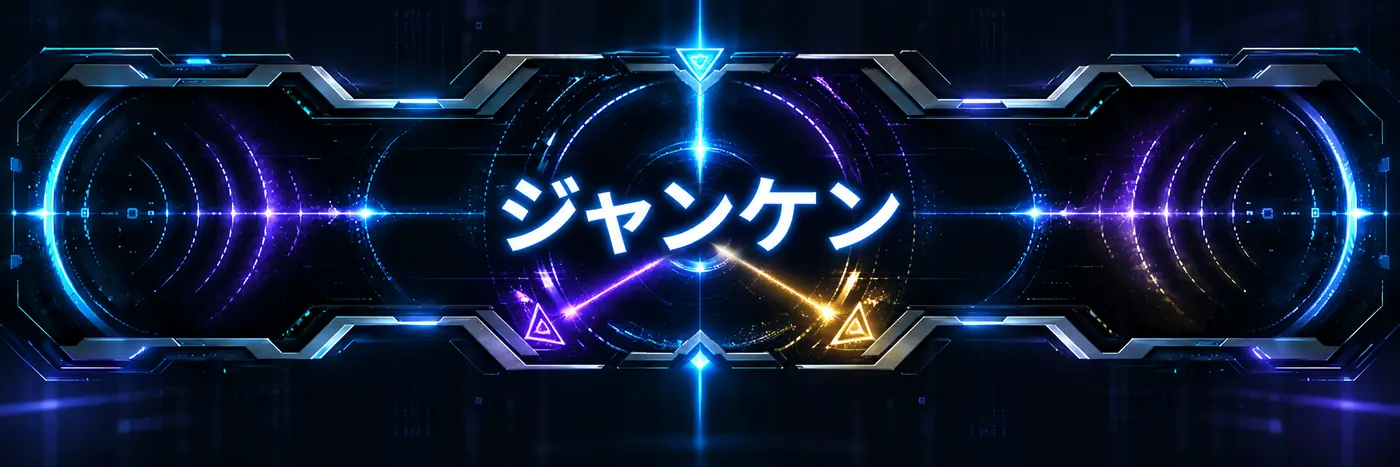
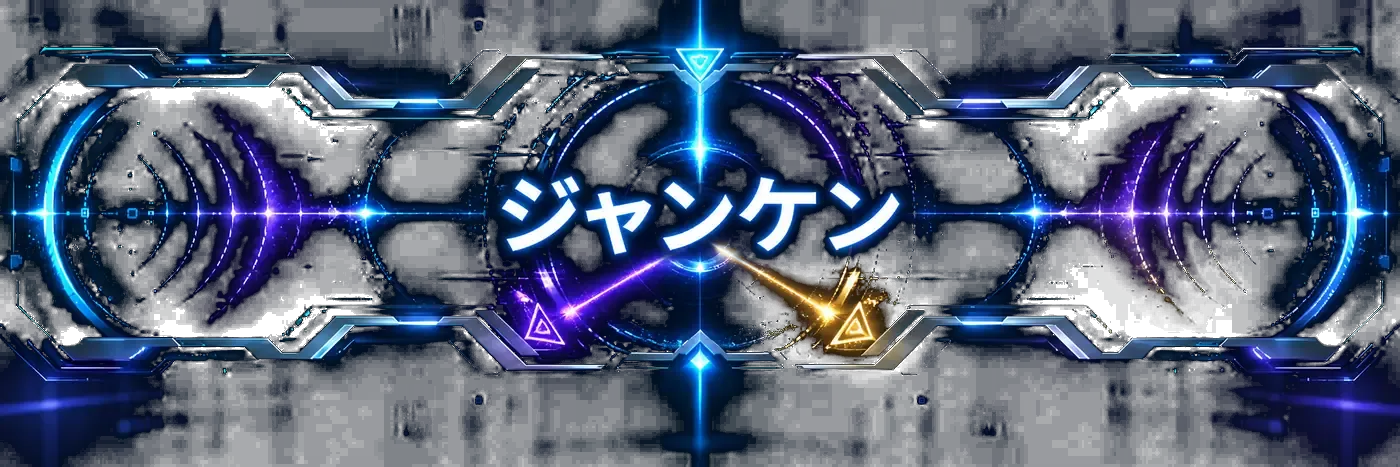
Add files via upload

diff --git a/public/network.html b/public/network.html
@@ -5,12 +5,12 @@
 <div id="networkHome" class="network-home"><div class="network-home-head"><span>NEXUS NETWORK</span><strong>SELECT LINK</strong></div><div class="network-art-menu"><button type="button" data-open-network="chat"><img src="/ui/global-chat.webp" alt="GLOBAL CHAT"></button><button type="button" data-open-network="friends"><img src="/ui/friends.webp" alt="FRIENDS"></button><button type="button" data-open-network="live"><img src="/ui/live-battle.webp" alt="LIVE BATTLE"></button></div></div>
 <div id="networkScreen" class="hidden"><div class="network-screen-nav"><a href="/network" class="network-back">‹ NETWORK</a><button data-tab="chat"><img src="/ui/global-chat.webp" alt="GLOBAL CHAT"></button><button data-tab="friends"><img src="/ui/friends.webp" alt="FRIENDS"></button><button data-tab="live"><img src="/ui/live-battle.webp" alt="LIVE BATTLE"></button></div>
 <div id="chat" class="network-tab hidden"><div class="network-page-title"><img src="/ui/global-chat.webp" alt="GLOBAL CHAT"></div><div id="chatList" class="chat-list"></div><div class="chat-compose global-compose"><input id="chatInput" maxlength="30" placeholder="全体メッセージ / 30文字まで"><button id="chatSend" class="art-small-button"><img src="/ui/send.webp" alt="送信"></button></div><p id="chatCooldown" class="system-note"></p></div>
-<div id="friends" class="network-tab hidden"><div class="network-page-title"><img src="/ui/friends.webp" alt="FRIENDS"></div><div class="friend-search"><input id="friendCode" inputmode="numeric" maxlength="4" placeholder="PLAYER ID"><button id="friendSearchBtn">SEARCH</button></div><div id="friendSearchResult"></div><div id="friendList"></div><div id="dmBox" class="dm-box hidden"><div class="dm-head"><strong id="dmName"></strong><button id="dmClose">×</button></div><div id="dmMessages" class="dm-messages"></div><p id="dmStatus" class="system-note"></p><div class="chat-compose dm-compose"><input id="dmInput" maxlength="100" autocomplete="off" placeholder="個別メッセージを入力"><button id="dmSend">SEND</button></div></div></div>
+<div id="friends" class="network-tab hidden"><div class="network-page-title"><img src="/ui/friends.webp" alt="FRIENDS"></div><div class="friend-search"><input id="friendCode" inputmode="numeric" maxlength="4" placeholder="PLAYER ID"><button id="friendSearchBtn">SEARCH</button></div><div id="friendSearchResult"></div><div id="friendList"></div><div id="dmBox" class="dm-box hidden"><div class="dm-head"><strong id="dmName"></strong><button id="dmClose">×</button></div><div id="dmMessages" class="dm-messages"></div><div class="chat-compose dm-compose"><input id="dmInput" type="text" maxlength="100" autocomplete="off" autocapitalize="off" enterkeyhint="send" placeholder="個別メッセージを入力"><button id="dmSend" type="button">SEND</button></div><p id="dmStatus" class="system-note"></p></div></div>
 <div id="live" class="network-tab hidden"><div class="network-page-title"><img src="/ui/live-battle.webp" alt="LIVE BATTLE"></div><div id="liveList" class="live-match-list"></div></div></div>
 </section></main><div id="profileAction" class="nexus-picker hidden"><div class="nexus-picker-card compact-profile-card"><button id="profileClose" class="picker-close">×</button><div id="profileBody"></div><button id="profileFriend" class="profile-art-action"><img src="/ui/friend-request.webp" alt="フレンド申請"></button><button id="profileBattle" class="profile-art-action"><img src="/ui/fight-request.webp" alt="対戦申請"></button></div></div><script>
-const $=s=>document.querySelector(s),token=localStorage.getItem('nexusParticipantToken')||'';if(!token)location.href='/';const esc=s=>{const d=document.createElement('div');d.textContent=s??'';return d.innerHTML};const api=async(u,o={})=>{const r=await fetch(u,{cache:'no-store',...o,headers:{'Content-Type':'application/json','X-Participant-Token':token,Authorization:'Bearer '+token,...(o.headers||{})}});const d=await r.json().catch(()=>({}));if(!r.ok)throw new Error(d.error||'通信エラー');return d};const av=k=>`/avatars/${/^avatar-(0[1-9]|1[0-2])$/.test(k||'')?k:'avatar-01'}.webp`;let selectedProfile=null,dmUser=null,cooldownUntil=0;let chatSig='',friendsSig='',liveSig='',dmSig='';
+const $=s=>document.querySelector(s),token=localStorage.getItem('nexusParticipantToken')||'';const pressRun=(el,fn)=>window.NexusUI?.pulsePress?window.NexusUI.pulsePress(el,fn):fn();if(!token)location.href='/';const esc=s=>{const d=document.createElement('div');d.textContent=s??'';return d.innerHTML};const api=async(u,o={})=>{const r=await fetch(u,{cache:'no-store',...o,headers:{'Content-Type':'application/json','X-Participant-Token':token,Authorization:'Bearer '+token,...(o.headers||{})}});const d=await r.json().catch(()=>({}));if(!r.ok)throw new Error(d.error||'通信エラー');return d};const av=k=>`/avatars/${/^avatar-(0[1-9]|1[0-2])$/.test(k||'')?k:'avatar-01'}.webp`;let selectedProfile=null,dmUser=null,cooldownUntil=0;let chatSig='',friendsSig='',liveSig='',dmSig='';
 function titleImg(t){return t?.image||'/titles/rookie.webp'}function profileMini(u){return `<button class="chat-avatar" data-profile='${JSON.stringify(u).replaceAll("'","&#39;")}'><img src="${av(u.avatarKey)}"></button><div class="chat-id"><img class="mini-title-img" src="${titleImg(u.title)}"><strong>${esc(u.name)}</strong></div>`}function profileDetail(u){return `<div class="profile-avatar-large"><img src="${av(u.avatarKey)}" alt=""></div><div class="profile-copy"><img class="profile-title-large" src="${titleImg(u.title)}" alt=""><span class="profile-kicker profile-name-label">PLAYER NAME</span><strong class="profile-name">${esc(u.name)}</strong></div>`}
-function openNetworkScreen(tab,push=true){if(!['chat','friends','live'].includes(tab))return;$('#networkHome').classList.add('hidden');$('#networkScreen').classList.remove('hidden');document.querySelectorAll('.network-tab').forEach(x=>x.classList.add('hidden'));document.querySelectorAll('[data-tab]').forEach(x=>x.classList.toggle('active',x.dataset.tab===tab));$('#'+tab).classList.remove('hidden');if(push)history.replaceState(null,'','#'+tab);if(tab==='chat')loadChat();if(tab==='friends')loadFriends();if(tab==='live')loadLive()}document.querySelectorAll('[data-tab]').forEach(b=>b.onclick=()=>openNetworkScreen(b.dataset.tab));document.querySelectorAll('[data-open-network]').forEach(b=>b.onclick=()=>openNetworkScreen(b.dataset.openNetwork));const h=location.hash.slice(1);if(['chat','friends','live'].includes(h))openNetworkScreen(h,false);
+function openNetworkScreen(tab,push=true){if(!['chat','friends','live'].includes(tab))return;$('#networkHome').classList.add('hidden');$('#networkScreen').classList.remove('hidden');document.querySelectorAll('.network-tab').forEach(x=>x.classList.add('hidden'));document.querySelectorAll('[data-tab]').forEach(x=>x.classList.toggle('active',x.dataset.tab===tab));$('#'+tab).classList.remove('hidden');if(push)history.replaceState(null,'','#'+tab);if(tab==='chat')loadChat();if(tab==='friends')loadFriends();if(tab==='live')loadLive()}document.querySelectorAll('[data-tab]').forEach(b=>b.onclick=()=>pressRun(b,()=>openNetworkScreen(b.dataset.tab)));document.querySelectorAll('[data-open-network]').forEach(b=>b.onclick=()=>pressRun(b,()=>openNetworkScreen(b.dataset.openNetwork)));const h=location.hash.slice(1);if(['chat','friends','live'].includes(h))openNetworkScreen(h,false);
 async function loadChat(){try{const d=await api('/api/chat/global');const sig=JSON.stringify(d.map(m=>[m.id,m.message,m.createdAt,m.user?.id,m.user?.avatarKey,m.user?.title?.key||m.user?.title?.image]));if(sig===chatSig)return;chatSig=sig;const box=$('#chatList');const near=box.scrollHeight-box.scrollTop-box.clientHeight<120;const oldTop=box.scrollTop;box.innerHTML=d.map(m=>`<div class="chat-row">${profileMini(m.user)}<div class="chat-bubble">${esc(m.message)}<small>${new Date(m.createdAt).toLocaleTimeString('ja-JP',{hour:'2-digit',minute:'2-digit'})}</small></div></div>`).join('')||'<p class="system-note">まだメッセージはありません。</p>';if(near)box.scrollTop=box.scrollHeight;else box.scrollTop=oldTop}catch(e){$('#chatCooldown').textContent=e.message}}
 async function sendGlobalChat(){
   const m=$('#chatInput').value.trim();if(!m)return;
@@ -30,6 +30,6 @@ $('#chatInput').addEventListener('keydown',e=>{if(e.key==='Enter'&&!e.isComposin
 document.addEventListener('click',e=>{const b=e.target.closest('[data-profile]');if(!b)return;try{selectedProfile=JSON.parse(b.dataset.profile);$('#profileBody').innerHTML=profileDetail(selectedProfile);$('#profileAction').classList.remove('hidden')}catch{}});$('#profileClose').onclick=()=>$('#profileAction').classList.add('hidden');$('#profileFriend').onclick=async()=>{try{await api('/api/friends/request',{method:'POST',body:JSON.stringify({userId:selectedProfile.id})});alert('フレンド申請を送信しました');$('#profileAction').classList.add('hidden')}catch(e){alert(e.message)}};$('#profileBattle').onclick=()=>{location.href='/?challenge='+selectedProfile.code};
 $('#friendSearchBtn').onclick=async()=>{try{const d=await api('/api/friends/search?code='+encodeURIComponent($('#friendCode').value));$('#friendSearchResult').innerHTML=`<div class="friend-card">${profileMini(d.user)}${d.friendship?`<span class="friend-state">申請状態: ${esc(d.friendship.status)}</span>`:`<button class="friend-art-btn" data-request-user="${d.user.id}"><img src="/ui/friend-request.webp" alt="フレンド申請"></button>`}</div>`}catch(e){alert(e.message)}};document.addEventListener('click',async e=>{const r=e.target.closest('[data-request-user]');if(r){try{await api('/api/friends/request',{method:'POST',body:JSON.stringify({userId:Number(r.dataset.requestUser)})});loadFriends()}catch(x){alert(x.message)}}const a=e.target.closest('[data-accept-friend]');if(a){await api('/api/friends/'+a.dataset.acceptFriend+'/accept',{method:'POST'});loadFriends()}const d=e.target.closest('[data-dm-user]');if(d){dmUser={id:Number(d.dataset.dmUser),name:d.dataset.dmName};openDm()}});
 async function loadFriends(){try{const d=await api('/api/friends');const sig=JSON.stringify(d.map(f=>[f.id,f.status,f.direction,f.user?.id,f.user?.name,f.user?.avatarKey,f.user?.title?.key||f.user?.title?.image]));if(sig===friendsSig)return;friendsSig=sig;$('#friendList').innerHTML=d.map(f=>`<div class="friend-card">${profileMini(f.user)}<div class="friend-actions">${f.status==='pending'&&f.direction==='incoming'?`<button class="friend-art-btn" data-accept-friend="${f.id}"><img src="/ui/approve.webp" alt="承認"></button>`:''}${f.status==='accepted'?`<button class="dm-open-btn" data-dm-user="${f.user.id}" data-dm-name="${esc(f.user.name)}">MESSAGE</button>`:''}<small>${f.status==='accepted'?'FRIEND':f.direction==='incoming'?'申請を受信':'申請中'}</small></div></div>`).join('')||'<p class="system-note">まだフレンドはいません。</p>'}catch(e){}}
-let dmLoadSeq=0,dmSending=false;async function openDm(){if(!dmUser)return;dmSig='';$('#dmName').textContent=dmUser.name;$('#dmStatus').textContent='';$('#dmBox').classList.remove('hidden');await loadDm(true)}async function loadDm(force=false){if(!dmUser)return;const targetId=dmUser.id,seq=++dmLoadSeq;try{const d=await api('/api/friends/'+targetId+'/messages');if(!dmUser||dmUser.id!==targetId||seq!==dmLoadSeq)return;const sig=JSON.stringify(d.map(m=>[m.id,m.senderId,m.message,m.createdAt]));if(!force&&sig===dmSig)return;dmSig=sig;const box=$('#dmMessages');const near=box.scrollHeight-box.scrollTop-box.clientHeight<100;const oldTop=box.scrollTop;box.innerHTML=d.map(m=>`<div class="dm-msg ${m.senderId===targetId?'other':'mine'}"><span>${esc(m.message)}</span></div>`).join('')||'<p class="system-note">まだメッセージはありません。</p>';if(near||force)box.scrollTop=box.scrollHeight;else box.scrollTop=oldTop;$('#dmStatus').textContent=''}catch(e){if(dmUser&&dmUser.id===targetId)$('#dmStatus').textContent=e.message}}async function sendDm(){const m=$('#dmInput').value.trim();if(!m||!dmUser||dmSending)return;const targetId=dmUser.id;dmSending=true;$('#dmSend').disabled=true;$('#dmStatus').textContent='送信中...';try{await api('/api/friends/'+targetId+'/messages',{method:'POST',body:JSON.stringify({message:m})});if(dmUser&&dmUser.id===targetId){$('#dmInput').value='';dmSig='';await loadDm(true)}}catch(e){$('#dmStatus').textContent=e.message}finally{dmSending=false;$('#dmSend').disabled=false}}$('#dmSend').onclick=sendDm;$('#dmInput').addEventListener('keydown',e=>{if(e.key==='Enter'&&!e.isComposing){e.preventDefault();sendDm()}});$('#dmClose').onclick=()=>{dmLoadSeq++;$('#dmBox').classList.add('hidden');dmUser=null;$('#dmStatus').textContent=''};setInterval(()=>{if(dmUser&&!$('#dmBox').classList.contains('hidden'))loadDm()},2200);
+let dmLoadSeq=0,dmSending=false;async function openDm(){if(!dmUser)return;dmSig='';$('#dmName').textContent=dmUser.name;$('#dmStatus').textContent='';$('#dmBox').classList.remove('hidden');document.body.classList.add('dm-open');await loadDm(true);requestAnimationFrame(()=>{const input=$('#dmInput');if(input){input.style.display='block';input.removeAttribute('hidden')}})}async function loadDm(force=false){if(!dmUser)return;const targetId=dmUser.id,seq=++dmLoadSeq;try{const d=await api('/api/friends/'+targetId+'/messages');if(!dmUser||dmUser.id!==targetId||seq!==dmLoadSeq)return;const sig=JSON.stringify(d.map(m=>[m.id,m.senderId,m.message,m.createdAt]));if(!force&&sig===dmSig)return;dmSig=sig;const box=$('#dmMessages');const near=box.scrollHeight-box.scrollTop-box.clientHeight<100;const oldTop=box.scrollTop;box.innerHTML=d.map(m=>`<div class="dm-msg ${m.senderId===targetId?'other':'mine'}"><span>${esc(m.message)}</span></div>`).join('')||'<p class="system-note">まだメッセージはありません。</p>';if(near||force)box.scrollTop=box.scrollHeight;else box.scrollTop=oldTop;$('#dmStatus').textContent=''}catch(e){if(dmUser&&dmUser.id===targetId)$('#dmStatus').textContent=e.message}}async function sendDm(){const m=$('#dmInput').value.trim();if(!m||!dmUser||dmSending)return;const targetId=dmUser.id;dmSending=true;$('#dmSend').disabled=true;$('#dmStatus').textContent='送信中...';try{await api('/api/friends/'+targetId+'/messages',{method:'POST',body:JSON.stringify({message:m})});if(dmUser&&dmUser.id===targetId){$('#dmInput').value='';dmSig='';await loadDm(true)}}catch(e){$('#dmStatus').textContent=e.message}finally{dmSending=false;$('#dmSend').disabled=false}}$('#dmSend').onclick=sendDm;$('#dmInput').addEventListener('keydown',e=>{if(e.key==='Enter'&&!e.isComposing){e.preventDefault();sendDm()}});$('#dmClose').onclick=()=>{dmLoadSeq++;$('#dmBox').classList.add('hidden');document.body.classList.remove('dm-open');dmUser=null;$('#dmStatus').textContent=''};setInterval(()=>{if(dmUser&&!$('#dmBox').classList.contains('hidden'))loadDm()},2200);
 let liveLoading=false;async function loadLive(){if(liveLoading)return;liveLoading=true;try{const d=await api('/api/live-matches');const all=[...d.quick.map(m=>({k:'quick',m})),...d.custom.map(m=>({k:'custom',m}))];const sig=JSON.stringify(all.map(({k,m})=>[k,m.id,m.gameType,m.status,m.wager,m.challenger?.id,m.challenger?.name,m.opponent?.id,m.opponent?.name]));if(sig===liveSig)return;liveSig=sig;const box=$('#liveList');const html=all.map(({k,m})=>`<a class="live-match-card" href="${k==='quick'?'/watch?kind=quick&id='+m.id:'#'}"><div><b>${k==='quick'?m.gameType.toUpperCase():'CUSTOM'}</b><strong>${esc(m.challenger.name)} <i>VS</i> ${esc(m.opponent.name)}</strong></div><span>${m.wager}pt<img class="live-watch-art" src="/ui/watch.webp" alt="観戦"></span></a>`).join('')||'<p class="system-note">現在進行中の試合はありません。</p>';if(box.innerHTML!==html)box.innerHTML=html}catch(e){}finally{liveLoading=false}};setInterval(()=>{if(!$('#chat').classList.contains('hidden'))loadChat()},2500);setInterval(()=>{if(!$('#live').classList.contains('hidden'))loadLive()},3000);loadChat();loadFriends();loadLive();window.addEventListener('pointerdown',()=>window.NexusBGM?.prime?.('home'),{once:true});
 </script></body></html>

diff --git a/public/index.html b/public/index.html
@@ -169,7 +169,7 @@
 <div id="avatarPicker" class="nexus-picker hidden"><div class="nexus-picker-card"><div class="nexus-picker-head"><div><span>AVATAR LINK</span><strong>アイコンを変更</strong></div><button type="button" class="picker-close" data-close-picker="avatar">×</button></div><div class="avatar-picker-grid"><button type="button" data-avatar-change="avatar-01"><img src="/avatars/avatar-01.webp" alt="avatar 1"></button><button type="button" data-avatar-change="avatar-02"><img src="/avatars/avatar-02.webp" alt="avatar 2"></button><button type="button" data-avatar-change="avatar-03"><img src="/avatars/avatar-03.webp" alt="avatar 3"></button><button type="button" data-avatar-change="avatar-04"><img src="/avatars/avatar-04.webp" alt="avatar 4"></button><button type="button" data-avatar-change="avatar-05"><img src="/avatars/avatar-05.webp" alt="avatar 5"></button><button type="button" data-avatar-change="avatar-06"><img src="/avatars/avatar-06.webp" alt="avatar 6"></button><button type="button" data-avatar-change="avatar-07"><img src="/avatars/avatar-07.webp" alt="avatar 7"></button><button type="button" data-avatar-change="avatar-08"><img src="/avatars/avatar-08.webp" alt="avatar 8"></button><button type="button" data-avatar-change="avatar-09"><img src="/avatars/avatar-09.webp" alt="avatar 9"></button><button type="button" data-avatar-change="avatar-10"><img src="/avatars/avatar-10.webp" alt="avatar 10"></button><button type="button" data-avatar-change="avatar-11"><img src="/avatars/avatar-11.webp" alt="avatar 11"></button><button type="button" data-avatar-change="avatar-12"><img src="/avatars/avatar-12.webp" alt="avatar 12"></button></div></div></div>
 <div id="gameOverOverlay" class="gameover-overlay hidden"><div class="gameover-box"><div class="gameover-kicker">CONNECTION TERMINATED</div><h2>GAME OVER</h2><p>またのご参加をお待ちしております。</p><div class="gameover-count"><strong id="gameOverCount">5</strong><span>秒後にアカウントが削除されます</span></div></div></div>
 <script>
-const $=s=>document.querySelector(s);let timer=null;let authToken=localStorage.getItem('nexusParticipantToken')||'';let selectedAvatar='avatar-01';
+const $=s=>document.querySelector(s);const pressRun=(el,fn)=>window.NexusUI?.pulsePress?window.NexusUI.pulsePress(el,fn):fn();let timer=null;let authToken=localStorage.getItem('nexusParticipantToken')||'';let selectedAvatar='avatar-01';
 let accessTransitionRunning=false;
 function sleep(ms){return new Promise(r=>setTimeout(r,ms))}
 function setAccessState(percent,text){const bar=$('#accessProgressBar'),pct=$('#accessPercent'),status=$('#accessStatus');if(bar)bar.style.width=`${percent}%`;if(pct)pct.textContent=`${percent}%`;if(status)status.textContent=text}
@@ -269,12 +269,12 @@ function showBattleWizard(step){
   $('#quickEntryPanel')?.classList.toggle('hidden',step!=='quick-entry');
   $('#battleHubNote')?.classList.toggle('hidden',step==='root'||step==='modes'||step==='games');
 }
-$('#battleHubOpen').onclick=()=>showBattleWizard('modes');
-$('#quickModeBtn').onclick=()=>showBattleWizard('games');
-$('#customModeBtn').onclick=()=>showBattleWizard('custom');
-document.querySelectorAll('[data-battle-back]').forEach(b=>b.onclick=()=>showBattleWizard(b.dataset.battleBack==='root'?'root':b.dataset.battleBack==='modes'?'modes':'games'));
+$('#battleHubOpen').onclick=()=>pressRun($('#battleHubOpen'),()=>showBattleWizard('modes'));
+$('#quickModeBtn').onclick=()=>pressRun($('#quickModeBtn'),()=>showBattleWizard('games'));
+$('#customModeBtn').onclick=()=>pressRun($('#customModeBtn'),()=>showBattleWizard('custom'));
+document.querySelectorAll('[data-battle-back]').forEach(b=>b.onclick=()=>{const next=b.dataset.battleBack==='root'?'root':b.dataset.battleBack==='modes'?'modes':'games';pressRun(b,()=>showBattleWizard(next))});
 let selectedQuickGame='hitblow';
-document.querySelectorAll('.quick-game-card[data-game]').forEach(card=>card.addEventListener('click',()=>{selectedQuickGame=card.dataset.game;const label=selectedQuickGame==='janken'?'JANKEN BO5':selectedQuickGame==='chinchiro'?'CHINCHIRO BO3':'HIT & BLOW';$('#quickEntryName').textContent=label;showBattleWizard('quick-entry');}));
+document.querySelectorAll('.quick-game-card[data-game]').forEach(card=>card.addEventListener('click',()=>{pressRun(card,()=>{selectedQuickGame=card.dataset.game;const label=selectedQuickGame==='janken'?'JANKEN BO5':selectedQuickGame==='chinchiro'?'CHINCHIRO BO3':'HIT & BLOW';$('#quickEntryName').textContent=label;showBattleWizard('quick-entry')})}));
 $('#quickChallengeBtn').onclick=async()=>{const btn=$('#quickChallengeBtn');const msg=$('#quickMatchCreateMsg');msg.textContent='';try{btn.disabled=true;const wager=Number($('#quickWagerAmount').value);if(!Number.isInteger(wager)||wager<10||wager%10!==0)throw new Error('対戦ポイントは10pt刻みで入力してください');const r=await api('/api/quick-matches',{method:'POST',body:JSON.stringify({opponentCode:$('#quickOpponentCode').value,wager,gameType:selectedQuickGame})});const label=selectedQuickGame==='janken'?'JANKEN BO5':selectedQuickGame==='chinchiro'?'CHINCHIRO BO3':'HIT & BLOW';msg.className='ok';msg.textContent=`${label}申請を送信しました / ${r.match.wager}pt`;$('#quickWagerAmount').value='';await sleep(350);location.href=selectedQuickGame==='janken'?'/janken':selectedQuickGame==='chinchiro'?'/chinchiro':'/hit-blow'}catch(e){msg.className='error';msg.textContent=e.message}finally{btn.disabled=false}};
 $('#challengeBtn').onclick=async()=>{const btn=$('#challengeBtn');$('#matchCreateMsg').textContent='';$('#matchCreateMsg').className='';try{btn.disabled=true;const wager=Number($('#wagerAmount').value);if(!Number.isInteger(wager)||wager<10||wager%10!==0)throw new Error('対戦ポイントは10pt刻み（10、20、30…）で入力してください');const r=await api('/api/matches',{method:'POST',body:JSON.stringify({opponentCode:$('#opponentCode').value,refereeCode:$('#refereeCode').value,wager})});$('#matchCreateMsg').className='ok';$('#matchCreateMsg').textContent=`対戦申請を送信しました / BATTLE POINTS ${r.match.wager}pt`;$('#wagerAmount').value='';await sleep(350);location.href='/match'}catch(e){$('#matchCreateMsg').className='error';$('#matchCreateMsg').textContent=e.message}finally{btn.disabled=false}};
 $('#loginBtn').addEventListener('pointerdown',()=>{window.NexusBGM?.unlock?.();window.NexusBGM?.prime?.('home')});$('#loginBtn').onclick=()=>auth('login');$('#refreshBtn').onclick=()=>loadMe(true);$('#logoutBtn').onclick=async()=>{clearInterval(matchPollTimer);try{await api('/api/logout',{method:'POST'})}catch(e){}localStorage.removeItem('nexusParticipantToken');authToken='';location.reload()};

diff --git a/public/style.css b/public/style.css
@@ -1441,3 +1441,146 @@
 }
 .request-title-img{display:block!important;width:min(150px,100%)!important;height:30px!important;object-fit:contain!important;margin:3px auto 1px!important;background:transparent!important;animation:none!important;transition:none!important}
 .request-player{display:flex!important;flex-direction:column!important;align-items:center!important}.request-player>img:not(.request-title-img){order:0}.request-player>span{order:1}.request-player>.request-title-img{order:2}.request-player>strong{order:3}.request-player>small{order:4}
+
+/* v5.59 — transparent art, tactile selection feedback, DM composer hard fix */
+.art-menu-root,.art-choice,.art-action-button,.network-art-menu button,.network-screen-nav button,.profile-art-action,.friend-art-btn,.art-small-button{
+  background:transparent!important;
+  border:0!important;
+  box-shadow:none!important;
+  clip-path:none!important;
+}
+.art-menu-root img,.art-choice img,.art-game-grid .quick-game-card img,.network-art-menu img,.network-screen-nav img,.network-page-title img,.field-art-label,.art-action-button img,.profile-art-action img,.friend-art-btn img,.art-small-button img{
+  background:transparent!important;
+  object-fit:contain!important;
+  filter:none;
+}
+.art-choice,.network-art-menu button,.quick-game-card,.art-menu-root,.art-action-button,.profile-art-action,.friend-art-btn,.art-small-button{
+  transition:transform .14s cubic-bezier(.2,.9,.2,1),filter .14s ease,opacity .14s ease!important;
+  transform-origin:center;
+}
+.nexus-touch-down,.nexus-pressing{
+  transform:scale(.965)!important;
+  filter:brightness(1.28) saturate(1.16)!important;
+}
+.nexus-pressing img,.nexus-touch-down img{
+  filter:brightness(1.2) drop-shadow(0 0 14px rgba(67,220,255,.34))!important;
+}
+body.nexus-ui-shift:after{
+  content:"";
+  position:fixed;
+  inset:0;
+  z-index:9998;
+  pointer-events:none;
+  background:linear-gradient(180deg,transparent 0,rgba(79,224,255,.08) 48%,rgba(143,79,255,.12) 50%,rgba(79,224,255,.08) 52%,transparent 100%);
+  animation:nexusUiShift .19s ease-out both;
+}
+@keyframes nexusUiShift{
+  0%{opacity:0;transform:scaleY(.03)}
+  45%{opacity:1;transform:scaleY(1)}
+  100%{opacity:0;transform:scaleY(1.35)}
+}
+
+/* remove the extra rectangular card feel now that artwork itself is transparent */
+.art-choice-grid,.art-game-grid,.network-art-menu{background:transparent!important}
+.art-choice,.network-art-menu button{padding:3px!important}
+.art-choice img,.network-art-menu img{
+  width:100%!important;
+  height:auto!important;
+  aspect-ratio:auto!important;
+  max-height:190px;
+}
+.art-game-grid .quick-game-card{
+  background:transparent!important;
+  border:0!important;
+  box-shadow:none!important;
+  padding:3px!important;
+}
+.art-game-grid .quick-game-card img{height:auto!important;aspect-ratio:auto!important;max-height:150px}
+.network-page-title img{height:auto!important;max-height:160px!important}
+.network-screen-nav img{object-fit:contain!important;background:transparent!important}
+
+/* DM: use a flex shell so the input row can never be squeezed out by message history */
+body.dm-open{overflow:hidden!important}
+.dm-box{
+  display:flex!important;
+  flex-direction:column!important;
+  grid-template-rows:none!important;
+  width:min(720px,calc(100vw - 20px))!important;
+  height:min(72dvh,680px)!important;
+  max-height:calc(100dvh - 28px)!important;
+  min-height:360px!important;
+  overflow:hidden!important;
+  padding:0!important;
+}
+.dm-box.hidden{display:none!important}
+.dm-head{flex:0 0 auto!important}
+.dm-messages{
+  flex:1 1 auto!important;
+  min-height:90px!important;
+  height:auto!important;
+  overflow-y:auto!important;
+}
+.dm-box .dm-compose{
+  flex:0 0 auto!important;
+  display:grid!important;
+  grid-template-columns:minmax(0,1fr) 82px!important;
+  gap:8px!important;
+  width:100%!important;
+  min-height:64px!important;
+  padding:9px 10px max(10px,env(safe-area-inset-bottom))!important;
+  margin:0!important;
+  position:relative!important;
+  bottom:auto!important;
+  z-index:20!important;
+  visibility:visible!important;
+  opacity:1!important;
+  background:#020b13!important;
+  border-top:1px solid rgba(73,214,255,.34)!important;
+}
+#dmInput{
+  display:block!important;
+  visibility:visible!important;
+  opacity:1!important;
+  width:100%!important;
+  min-width:0!important;
+  height:46px!important;
+  min-height:46px!important;
+  padding:11px 12px!important;
+  margin:0!important;
+  font-size:16px!important;
+  line-height:22px!important;
+  color:#f4fdff!important;
+  caret-color:#62eaff!important;
+  background:#071724!important;
+  border:1px solid rgba(80,220,255,.48)!important;
+  border-radius:4px!important;
+  -webkit-appearance:none!important;
+  appearance:none!important;
+}
+#dmInput::placeholder{color:#648697!important;opacity:1!important}
+#dmInput:focus{border-color:#53e5ff!important;box-shadow:0 0 0 2px rgba(50,215,255,.09),0 0 18px rgba(50,215,255,.09)!important}
+#dmSend{
+  display:grid!important;
+  place-items:center!important;
+  visibility:visible!important;
+  opacity:1!important;
+  width:82px!important;
+  min-width:82px!important;
+  height:46px!important;
+  min-height:46px!important;
+  padding:0 8px!important;
+  margin:0!important;
+  border:1px solid rgba(95,230,255,.52)!important;
+  background:linear-gradient(135deg,#075873,#3448ff)!important;
+  color:#fff!important;
+  font-size:11px!important;
+}
+#dmStatus{flex:0 0 auto!important;min-height:18px!important;padding:2px 8px 5px!important;margin:0!important}
+@media(max-width:620px){
+  .art-choice img,.network-art-menu img{max-height:135px}
+  .art-game-grid .quick-game-card img{max-height:112px}
+  .network-page-title img{max-height:112px!important}
+  .dm-box{height:min(68dvh,590px)!important;max-height:calc(100dvh - 18px)!important;top:50%!important}
+  .dm-box .dm-compose{grid-template-columns:minmax(0,1fr) 72px!important;padding:8px 8px max(9px,env(safe-area-inset-bottom))!important}
+  #dmSend{width:72px!important;min-width:72px!important}
+}

diff --git a/public/ui-fx.js b/public/ui-fx.js
@@ -106,5 +106,25 @@
   });
   window.addEventListener('popstate',()=>{if(window.self!==window.top)return;const p=location.pathname;const wrap=document.getElementById('moduleFrameOverlay');if(!wrap)return;if(p==='/'){wrap.classList.add('hidden');return}if(p==='/ranking'||p==='/history'||p==='/rule'){const frame=wrap.querySelector('#moduleFrame');wrap.classList.remove('hidden');frame.src=p+'?embed=1'}});
 
-  window.NexusUI={playClick,playAvatar,navigate};
+  let pressLock=false;
+  function pulsePress(el,done,delay=190){
+    if(pressLock)return;
+    pressLock=true;
+    if(el){el.classList.remove('nexus-pressing');void el.offsetWidth;el.classList.add('nexus-pressing')}
+    document.body.classList.add('nexus-ui-shift');
+    setTimeout(()=>{
+      if(el)el.classList.remove('nexus-pressing');
+      document.body.classList.remove('nexus-ui-shift');
+      pressLock=false;
+      try{done?.()}catch(e){console.error(e)}
+    },delay);
+  }
+  document.addEventListener('pointerdown',e=>{
+    const el=e.target.closest('button,a,.art-choice,.art-menu-root,.quick-game-card');
+    if(!el||el.disabled)return;
+    el.classList.add('nexus-touch-down');
+    setTimeout(()=>el.classList.remove('nexus-touch-down'),140);
+  },{passive:true});
+
+  window.NexusUI={playClick,playAvatar,navigate,pulsePress};
 })();

diff --git a/README.md b/README.md
@@ -411,3 +411,8 @@ npm start
 - チャット/フレンド/観戦/申請などの操作UIも専用アートに差し替え。
 - プレイヤー表示順を「称号画像 → 名前」に統一（対戦画面、VSカットイン、チャット/フレンド、観戦）。
 - 個別メッセージの入力欄とSENDがiPhoneでも常に見えるようDMモーダルの高さ/下部composerを再設計。
+
+## v5.59
+- UI artwork backgrounds are now alpha-keyed so dark rectangular canvases no longer show around menu art.
+- Rebuilt FRIENDS private-message composer so the text input and SEND control stay visible on iPhone/Safari.
+- Added tactile press feedback and a short ~190ms HUD transition pulse before battle/network menu screens switch.
